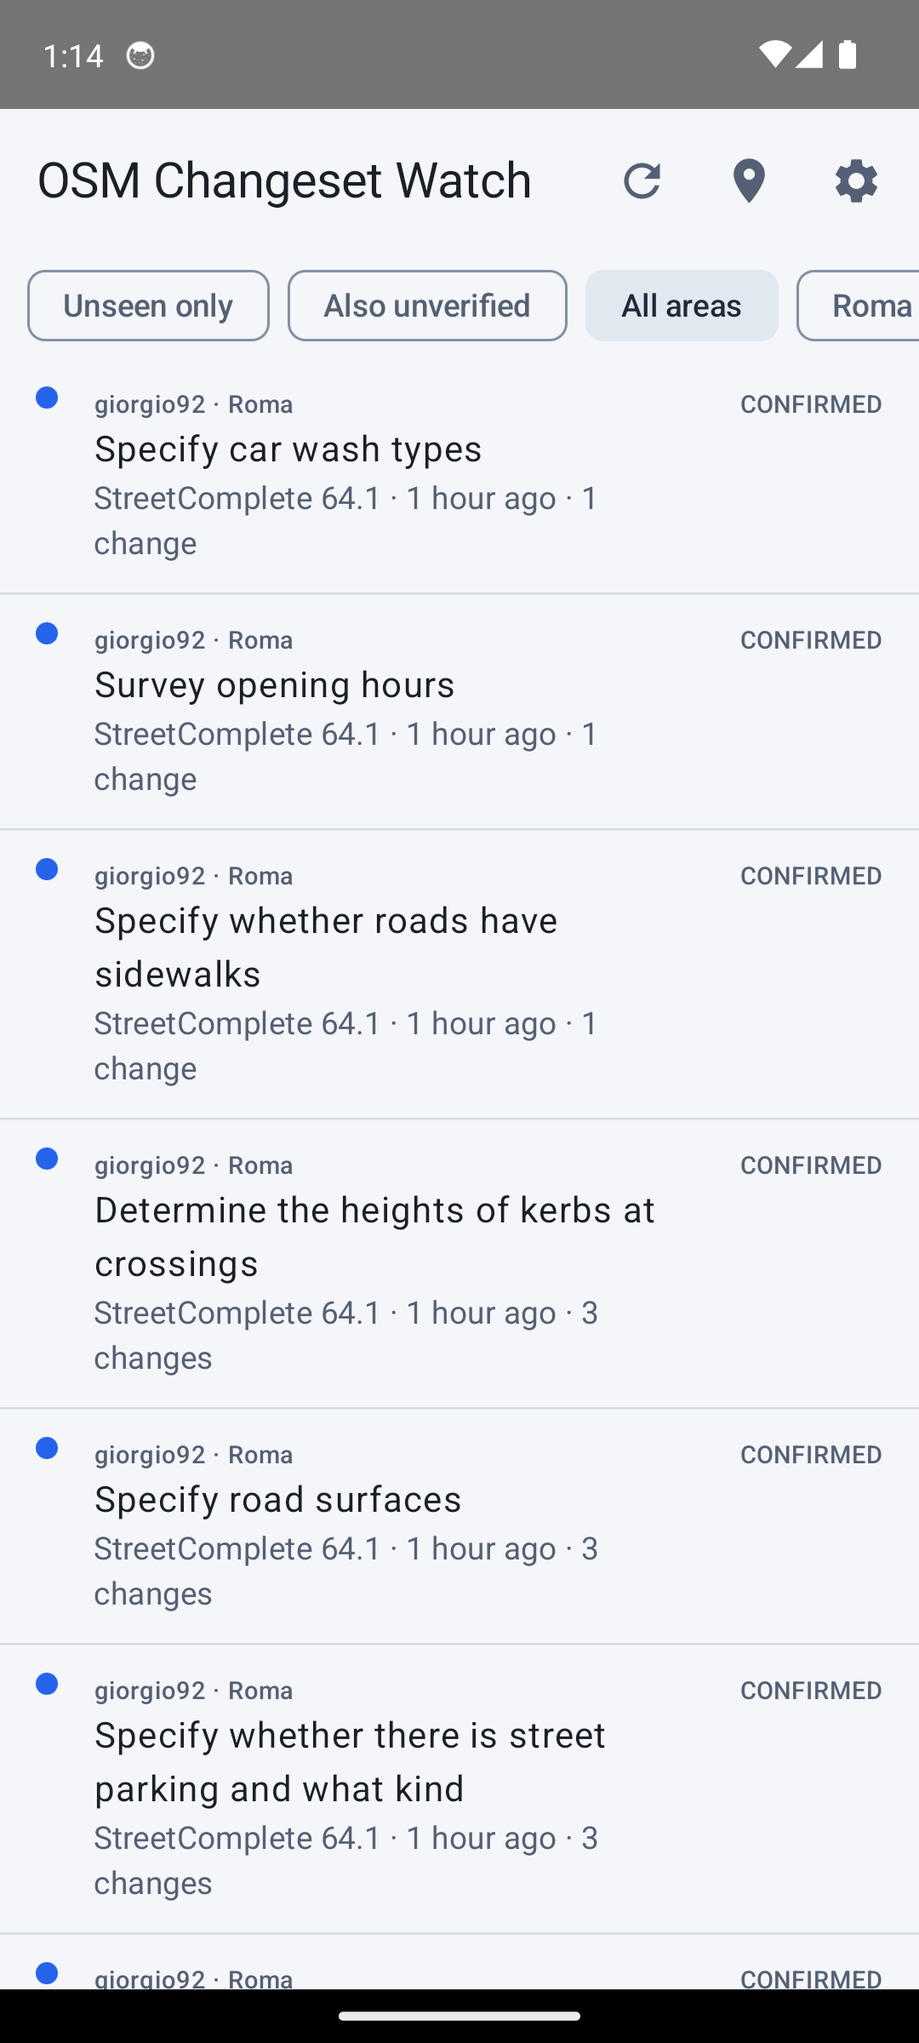
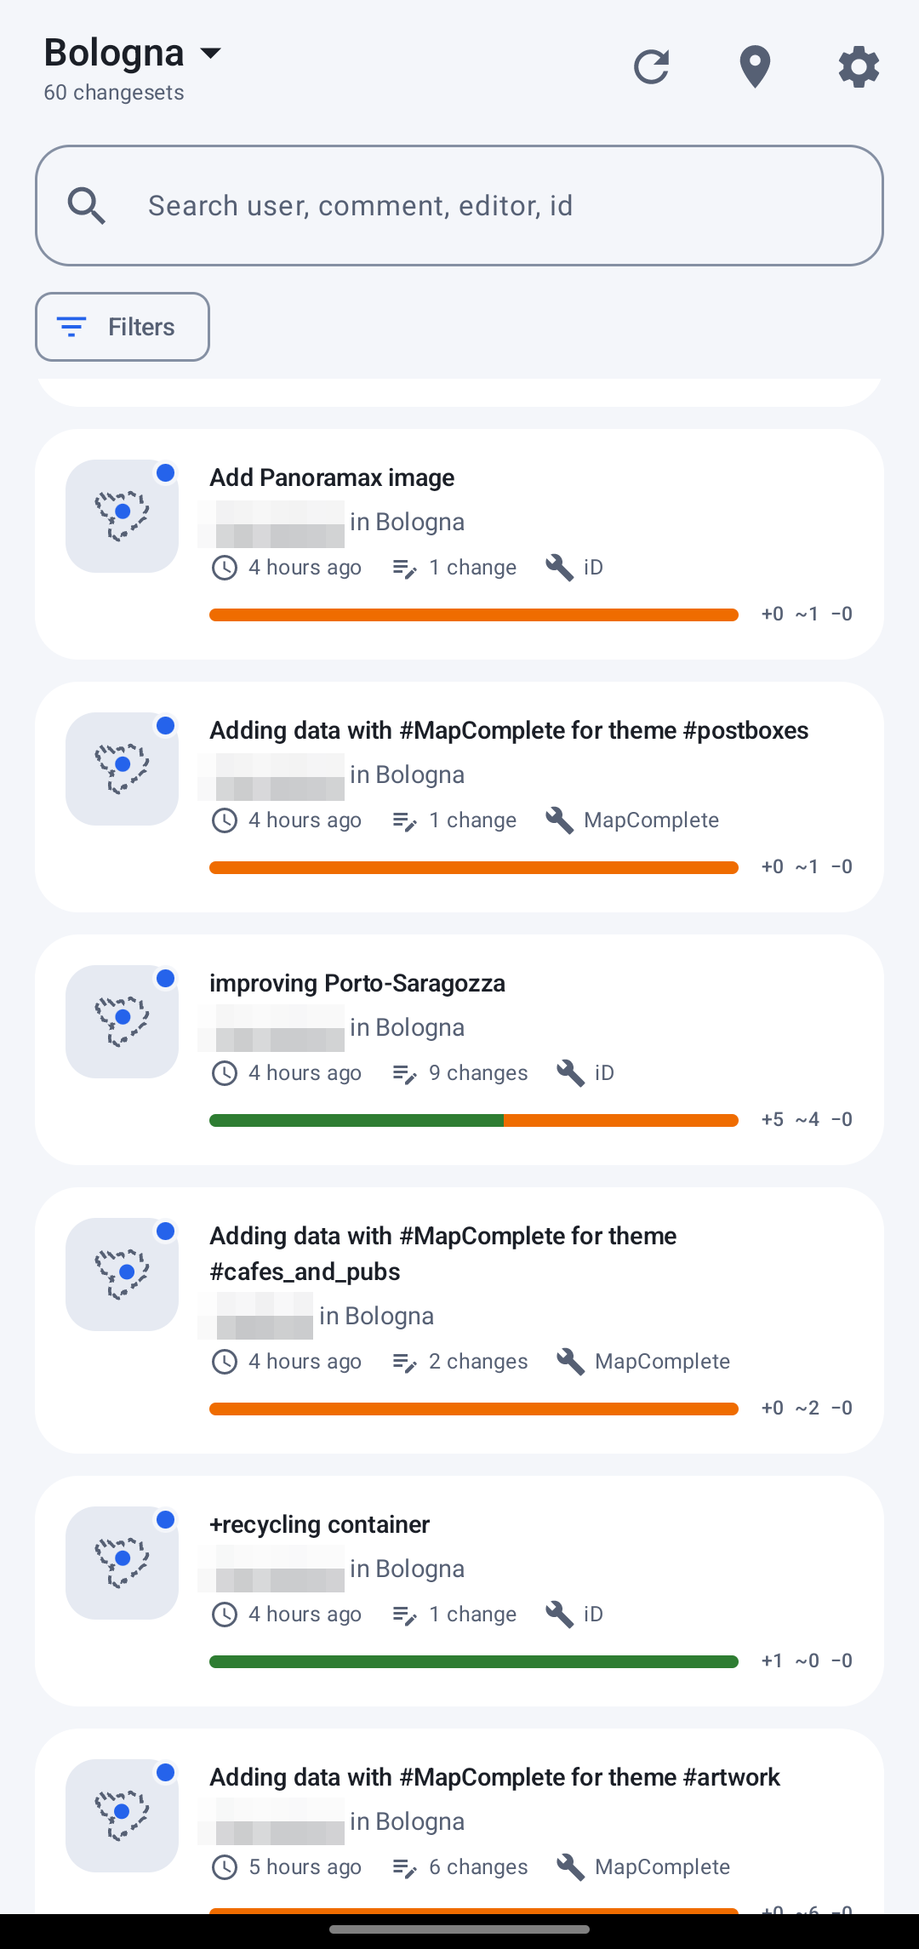
README nuovo, screenshot neutri, zoom fino a 21, date nella lingua dell'app
- README riscritto: funzioni attuali, diagramma della verifica, privacy, policy OSM
- Screenshot it/en della nuova interfaccia, con nomi e numeri oscurati
- Mappe fino allo zoom 21; l'inquadratura automatica si ferma al 19, dove esistono i tile
- "4 ore fa" segue la lingua scelta nell'app, non quella di sistema

diff --git a/app/src/main/java/org/osmwatch/changesetwatch/ui/MiniMap.kt b/app/src/main/java/org/osmwatch/changesetwatch/ui/MiniMap.kt
@@ -62,6 +62,13 @@ private class PointsOverlay(private val points: List<DrawPoint>, private val bef
     }
 }
 
+/**
+ * I tile OSM arrivano al 19; oltre, osmdroid ingrandisce quelli del 19 (fino a 29, illeggibile).
+ * Due livelli in più (tile ×4) restano leggibili e le geometrie disegnate sopra sono sempre nitide.
+ */
+const val MAX_ZOOM = 21.0
+private val TILE_ZOOM = TileSourceFactory.MAPNIK.maximumZoomLevel.toDouble()
+
 /** Minimappa non invasiva: mostra i cambiamenti (o, se non ricostruibili, la bbox del changeset) e si adatta all'area. */
 @Composable
 fun MiniMap(geometry: ChangeGeometry?, fallback: BBox?, onElementTap: (ElementRef) -> Unit, modifier: Modifier = Modifier) {
@@ -71,8 +78,7 @@ fun MiniMap(geometry: ChangeGeometry?, fallback: BBox?, onElementTap: (ElementRe
     val map = remember {
         MapView(context).apply {
             setTileSource(TileSourceFactory.MAPNIK)
-            // osmdroid permetterebbe zoom 29 ingrandendo i tile del 19 (sgranati): fermati dove i tile OSM esistono
-            maxZoomLevel = TileSourceFactory.MAPNIK.maximumZoomLevel.toDouble()
+            maxZoomLevel = MAX_ZOOM
             setMultiTouchControls(true)
             zoomController.setVisibility(CustomZoomButtonsController.Visibility.NEVER)
             // dentro una colonna scrollabile: il gesto sulla mappa non deve scorrere la pagina
@@ -119,7 +125,11 @@ fun MiniMap(geometry: ChangeGeometry?, fallback: BBox?, onElementTap: (ElementRe
             }
             if (box == null) return@post
             if (max(box.latitudeSpan, box.longitudeSpan) < 1e-4) { m.controller.setZoom(18.0); m.controller.setCenter(box.centerWithDateLine) }
-            else m.zoomToBoundingBox(box, false, (40 * d).toInt())
+            else {
+                m.zoomToBoundingBox(box, false, (40 * d).toInt())
+                // oltre il 19 i tile non si scaricano: si apre al 19 (così finiscono in cache) e lo zoom in più lo fa l'utente
+                if (m.zoomLevelDouble > TILE_ZOOM) m.controller.setZoom(TILE_ZOOM)
+            }
             m.invalidate()
         }
     })

diff --git a/app/src/main/java/org/osmwatch/changesetwatch/ui/Design.kt b/app/src/main/java/org/osmwatch/changesetwatch/ui/Design.kt
@@ -1,5 +1,7 @@
 package org.osmwatch.changesetwatch.ui
 
+import android.icu.text.RelativeDateTimeFormatter
+import android.icu.util.ULocale
 import androidx.compose.foundation.Canvas
 import androidx.compose.foundation.background
 import androidx.compose.foundation.layout.Box
@@ -193,5 +195,25 @@ fun CountsBar(created: Int?, modified: Int?, deleted: Int?, modifier: Modifier =
             "+$created  ~$modified  −$deleted", style = MaterialTheme.typography.labelSmall.tabular(),
             color = MaterialTheme.colorScheme.onSurfaceVariant, modifier = Modifier.padding(start = 10.dp),
         )
+    }
+}
+
+/**
+ * "4 ore fa" nella lingua dell'app: DateUtils.getRelativeTimeSpanString segue la lingua di sistema
+ * e ignora quella scelta nelle impostazioni.
+ */
+@Composable
+fun relativeTime(ms: Long): String {
+    val locale = androidx.compose.ui.platform.LocalConfiguration.current.locales[0]
+    val f = RelativeDateTimeFormatter.getInstance(ULocale.forLocale(locale))
+    val past = RelativeDateTimeFormatter.Direction.LAST
+    val min = (System.currentTimeMillis() - ms).coerceAtLeast(0) / 60_000
+    return when {
+        min < 1 -> f.format(RelativeDateTimeFormatter.Direction.PLAIN, RelativeDateTimeFormatter.AbsoluteUnit.NOW)
+        min < 60 -> f.format(min.toDouble(), past, RelativeDateTimeFormatter.RelativeUnit.MINUTES)
+        min < 24 * 60 -> f.format((min / 60).toDouble(), past, RelativeDateTimeFormatter.RelativeUnit.HOURS)
+        min < 2 * 24 * 60 -> f.format(past, RelativeDateTimeFormatter.AbsoluteUnit.DAY)
+        min < 7 * 24 * 60 -> f.format((min / (24 * 60)).toDouble(), past, RelativeDateTimeFormatter.RelativeUnit.DAYS)
+        else -> java.text.DateFormat.getDateInstance(java.text.DateFormat.MEDIUM, locale).format(java.util.Date(ms))
     }
 }

diff --git a/app/src/main/java/org/osmwatch/changesetwatch/ui/ChangesetsScreen.kt b/app/src/main/java/org/osmwatch/changesetwatch/ui/ChangesetsScreen.kt
@@ -1,6 +1,5 @@
 package org.osmwatch.changesetwatch.ui
 
-import android.text.format.DateUtils
 import androidx.compose.foundation.clickable
 import androidx.compose.foundation.layout.Arrangement
 import androidx.compose.foundation.layout.Box
@@ -295,7 +294,7 @@ private fun ChangesetCard(r: ChangesetRow, area: WatchArea?, flags: List<Flag>, 
                     }
                 }
                 Row(Modifier.padding(top = 6.dp), horizontalArrangement = Arrangement.spacedBy(12.dp)) {
-                    Meta(Icons.Default.Schedule, DateUtils.getRelativeTimeSpanString(r.createdAt, System.currentTimeMillis(), DateUtils.MINUTE_IN_MILLIS).toString())
+                    Meta(Icons.Default.Schedule, relativeTime(r.createdAt))
                     Meta(Icons.Default.EditNote, pluralStringResource(R.plurals.changes_n, r.changesCount ?: 0, r.changesCount ?: 0))
                     r.createdBy?.let { Meta(Icons.Default.Build, RowTags.editor(it) ?: it) }
                 }

diff --git a/app/src/main/java/org/osmwatch/changesetwatch/ui/ChangesetDetailScreen.kt b/app/src/main/java/org/osmwatch/changesetwatch/ui/ChangesetDetailScreen.kt
@@ -1,7 +1,6 @@
 package org.osmwatch.changesetwatch.ui
 
 import android.text.format.DateFormat
-import android.text.format.DateUtils
 import android.widget.Toast
 import androidx.activity.compose.BackHandler
 import androidx.compose.foundation.background
@@ -152,7 +151,7 @@ fun ChangesetDetailScreen(vm: ChangesetsViewModel, id: Long, areaId: Long, area:
                         Text("#$id", fontWeight = FontWeight.SemiBold, style = MaterialTheme.typography.titleLarge.tabular())
                         row?.let {
                             Text(
-                                DateUtils.getRelativeTimeSpanString(it.createdAt, System.currentTimeMillis(), DateUtils.MINUTE_IN_MILLIS).toString(),
+                                relativeTime(it.createdAt),
                                 style = MaterialTheme.typography.bodySmall, color = MaterialTheme.colorScheme.onSurfaceVariant,
                             )
                         }

diff --git a/app/src/main/java/org/osmwatch/changesetwatch/ui/AreasScreen.kt b/app/src/main/java/org/osmwatch/changesetwatch/ui/AreasScreen.kt
@@ -1,6 +1,5 @@
 package org.osmwatch.changesetwatch.ui
 
-import android.text.format.DateUtils
 import androidx.activity.compose.BackHandler
 import androidx.compose.foundation.clickable
 import androidx.compose.foundation.layout.Arrangement
@@ -169,7 +168,7 @@ private fun AreaCard(a: WatchArea, unseen: Int, onEdit: (() -> Unit)?, onToggle:
                     else Meta(if (a.polygon != null) Icons.Default.LocationCity else Icons.Default.SquareFoot, stringResource(R.string.area_km2, a.shape.areaKm2()))
                     Meta(
                         Icons.Default.Schedule,
-                        a.lastCheckedAt?.let { DateUtils.getRelativeTimeSpanString(it, System.currentTimeMillis(), DateUtils.MINUTE_IN_MILLIS).toString() }
+                        a.lastCheckedAt?.let { relativeTime(it) }
                             ?: stringResource(R.string.never_checked),
                     )
                 }

diff --git a/app/src/main/java/org/osmwatch/changesetwatch/ui/AreaEditorScreen.kt b/app/src/main/java/org/osmwatch/changesetwatch/ui/AreaEditorScreen.kt
@@ -238,8 +238,7 @@ fun AreaEditorScreen(area: WatchArea?, onSave: (WatchArea) -> Unit, onBack: () -
             factory = {
                 map.apply {
                     setTileSource(TileSourceFactory.MAPNIK)
-                    // osmdroid permetterebbe zoom 29 ingrandendo i tile del 19 (sgranati): fermati dove i tile OSM esistono
-                    maxZoomLevel = TileSourceFactory.MAPNIK.maximumZoomLevel.toDouble()
+                    maxZoomLevel = MAX_ZOOM
                     setMultiTouchControls(true)
                     zoomController.setVisibility(CustomZoomButtonsController.Visibility.NEVER)
                     controller.setZoom(13.0)

diff --git a/README.md b/README.md
@@ -1,66 +1,129 @@
+<div align="center">
+
+<img src="docs/icon.svg" width="96" alt="">
+
 # OSM Changeset Watch
 
-App Android (Kotlin, Jetpack Compose) che controlla i **changeset di OpenStreetMap** nelle aree che disegni sulla mappa e ti avvisa con una notifica. Nessun account, nessuna pubblicità, nessun servizio Google, nessun tracker. Licenza **GPL-3.0** (stessa di ParkMap).
+**Sai cosa cambia su OpenStreetMap nella tua zona, appena succede.**
 
-| Lista | Minimappa | Impostazioni |
-|---|---|---|
-| ![](fastlane/metadata/android/en-US/images/phoneScreenshots/1_list.png) | ![](fastlane/metadata/android/en-US/images/phoneScreenshots/2_map.png) | ![](fastlane/metadata/android/en-US/images/phoneScreenshots/3_settings.png) |
+Scegli un comune o disegna un'area: l'app controlla i changeset in background, scarta quelli che la sfiorano soltanto e ti avvisa di quelli che la toccano davvero. Per ognuno mostra cosa è cambiato, chi l'ha fatto e se vale la pena guardarlo meglio, come OSMCha ma sul telefono.
+
+[![Licenza GPL-3.0](https://img.shields.io/badge/licenza-GPL--3.0-2563EB)](LICENSE)
+[![Android 8.0+](https://img.shields.io/badge/Android-8.0%2B-2563EB?logo=android&logoColor=white)](#build)
+[![Kotlin](https://img.shields.io/badge/Kotlin-Compose-2563EB?logo=kotlin&logoColor=white)](#build)
+[![Nessun tracker](https://img.shields.io/badge/tracker-nessuno-16A34A)](#privacy)
+
+</div>
+
+| Lista | Dettaglio | Elementi | Confine del comune |
+|:---:|:---:|:---:|:---:|
+| <img src="fastlane/metadata/android/it-IT/images/phoneScreenshots/1_list.png" width="200"> | <img src="fastlane/metadata/android/it-IT/images/phoneScreenshots/2_detail.png" width="200"> | <img src="fastlane/metadata/android/it-IT/images/phoneScreenshots/3_elements.png" width="200"> | <img src="fastlane/metadata/android/it-IT/images/phoneScreenshots/4_area_editor.png" width="200"> |
 
 ## Cosa fa
-- **Aree**: rettangolo trascinabile su mappa osmdroid, superficie in km², avviso se molto grande.
-- **Filtro vero**: l'API restituisce ogni changeset la cui bbox *interseca* l'area, anche se enorme. Ogni candidato viene verificato (`ChangesetVerifier`) e la lista mostra solo quelli con almeno un elemento dentro l'area. "Anche non verificati" mostra il resto.
-- **Minimappa** del changeset: nuovo (verde), modificato (arancione), eliminato (rosso tratteggiato). Tocco su un elemento: tag aggiunti/cambiati/rimossi, spostamento, nodi aggiunti/tolti.
-- **Notifiche** raggruppate per area; controllo in background con WorkManager (15 min – 6 h).
-- Apertura del changeset su osm.org, Achavi, OSMCha. Italiano e inglese; tema, colori (blu / Material You) e lingua nelle impostazioni (stesso schema di ParkMap).
+
+### Osserva
+- **Comuni e luoghi veri.** Cerca un comune con Nominatim e l'area segue il suo confine reale, non un rettangolo. In alternativa disegni il rettangolo a mano.
+- **Utenti, ovunque nel mondo.** Segui un mapper e vedi tutti i suoi changeset, in qualunque posto.
+- **Notifiche raggruppate per area**, con un controllo in background ogni 15 minuti o fino a 6 ore.
+
+### Filtra il rumore
+- **Verifica geometrica.** L'API restituisce ogni changeset il cui riquadro *interseca* l'area, anche se copre mezza Europa. L'app scarica le modifiche e tiene solo quelli con almeno un elemento dentro.
+- **Segnali in stile OSMCha:** molte modifiche, nessun commento, cancellazioni in massa, mapper nuovo, utente già bloccato, utente sospetto.
+- **Filtri** per dimensione, data, editor, hashtag e tipo di modifica (solo cancellazioni, solo creazioni…).
+- **Liste di utenti fidati e sospetti**, per nascondere o evidenziare chi conosci.
+- Una **ricerca** per utente, commento, editor o id, e **"Carica altri"** in fondo alla lista per andare indietro nel tempo.
+
+### Capisci cosa è successo
+- **Mappa del changeset:** in verde ciò che è nuovo, in arancione il modificato, in rosso tratteggiato l'eliminato. La forma precedente resta visibile in grigio.
+- **Elenco degli elementi cambiati**, comprese le relation: tag aggiunti, cambiati e rimossi, nodi spostati, membri aggiunti e tolti.
+- **Cronologia di ogni elemento dentro l'app**, versione per versione, con le differenze e il link al changeset che l'ha fatta.
+- **Scheda dell'autore**, con iscrizione, numero di changeset, blocchi ricevuti e un riepilogo dell'attività recente nello stile di HDYC.
+- **Discussione:** leggi i commenti e, con il login OSM, rispondi direttamente al mapper.
+- Link rapidi a osm.org, iD, Achavi e OSMCha. L'app apre anche i link `openstreetmap.org/changeset/…` che arrivano da altre app.
 
 ## Come funziona la verifica
-1. bbox del changeset dentro l'area → confermato (nessun download); disgiunta → fuori.
-2. Più di *N* modifiche (default 2000, Impostazioni → Filtro) → `SKIPPED_TOO_LARGE`, non scaricato.
-3. Altrimenti `GET /changeset/{id}/download`: un nodo creato/modificato dentro l'area → confermato.
-4. Poi si ricostruisce la geometria: nodi cancellati (le coordinate non sono nel `osmChange`: si usa la versione precedente, `nodes?nodes=idv(N-1)`), way (nodi dal `osmChange`, gli altri via multi-fetch). Un punto dentro o un tratto che attraversa l'area → confermato.
-5. Nessun contatto: `OUTSIDE` se la ricostruzione è completa, `UNCERTAIN` se parziale o con relation.
 
-Download **uno alla volta**, 1 s di pausa, al massimo 25 verifiche per area e per giro (il resto resta `PENDING`).
+```mermaid
+flowchart LR
+    A[Changeset candidato] --> B{Riquadro dentro l'area?}
+    B -- sì --> OK([Confermato])
+    B -- disgiunto --> NO([Fuori])
+    B -- si sovrappone --> C{Più di N modifiche?}
+    C -- sì --> S([Troppo grande])
+    C -- no --> D[Scarica osmChange]
+    D --> E{Un nodo dentro?}
+    E -- sì --> OK
+    E -- no --> F[Ricostruisce way e nodi cancellati]
+    F --> G{Un punto o un tratto dentro?}
+    G -- sì --> OK
+    G -- no --> H([Fuori o incerto])
+```
+
+1. Se il riquadro del changeset è tutto dentro l'area, il changeset è confermato senza scaricare nulla. Se è del tutto fuori, viene scartato.
+2. Sopra le *N* modifiche (2000 di default, in Impostazioni → Filtro) il changeset non viene scaricato.
+3. Altrimenti l'app scarica `GET /changeset/{id}/download` e cerca un nodo creato o modificato dentro l'area.
+4. Poi ricostruisce la geometria. Le coordinate dei nodi cancellati vengono dalla versione precedente (`nodes?nodes=idv(N-1)`). Per le way, i nodi assenti dall'`osmChange` arrivano con un multi-fetch. Un punto dentro, o un tratto che attraversa il confine, basta a confermare.
+5. Se non trova nessun contatto, il changeset è **fuori** quando la ricostruzione è completa e **incerto** quando è parziale o contiene relation. I changeset incerti restano visibili con il filtro "Anche non verificati".
+
+## Privacy
+
+- **Nessun account obbligatorio, nessuna pubblicità, nessun tracker.** Niente Google Play Services, Firebase, analytics o crash reporter.
+- **Il login OSM è facoltativo** e serve solo per commentare. Usa OAuth2 con PKCE, senza segreti dentro l'app, e chiede il solo permesso `write_changeset_comments`. Il token è cifrato con l'Android Keystore.
+- **Permessi:** `INTERNET`, `ACCESS_NETWORK_STATE` e `POST_NOTIFICATIONS` (da Android 13). Nessun accesso alla posizione.
+
+## Rispetto per i server OSM
+
+- **API:** l'app legge in forma anonima da `api.openstreetmap.org/api/0.6` e si identifica con il proprio User-Agent (`OsmConfig.USER_AGENT`).
+  - Fa una richiesta alla volta, con pause tra una e l'altra.
+  - Su 429 e 5xx riprova con backoff esponenziale e rispetta `Retry-After`.
+  - Al massimo 25 download di verifica per giro; il resto aspetta il giro successivo.
+  - Vedi la [policy dell'API](https://operations.osmfoundation.org/policies/api/).
+- **Nominatim:** cerca solo quando premi invio, senza autocompletamento, con al massimo una richiesta al secondo. Vedi la [policy di Nominatim](https://operations.osmfoundation.org/policies/nominatim/).
+- **Tile:** usa i tile pubblici di OpenStreetMap, con 50 MB di cache e nessun prefetch. Vedi la [Tile Usage Policy](https://operations.osmfoundation.org/policies/tiles/).
 
 ## Limiti noti
-- Le **relation** non sono disegnate né risolte; un changeset con sole relation dentro l'area risulta `UNCERTAIN`.
-- Le way **cancellate** usano la posizione *attuale* dei nodi, che può essere cambiata.
-- Controlli in background **approssimativi**: Doze e risparmio energetico possono ritardarli; nessun foreground service. Il lavoro riprova con backoff se la rete manca.
-- Bbox che attraversano l'antimeridiano: non gestite (ignorate).
-- La mappa usa i tile pubblici di OpenStreetMap con User-Agent dell'app, cache da 50 MB e nessun prefetch; per uso intensivo la [Tile Usage Policy](https://operations.osmfoundation.org/policies/tiles/) suggerisce un provider dedicato.
-- Il refresh completo può durare qualche decina di secondi (verifiche sequenziali).
 
-## Uso dell'API OSM (policy)
-Solo lettura anonima di `api.openstreetmap.org/api/0.6`. User-Agent `OSMChangesetWatch/<versione> (<URL repo>)` in `OsmConfig.USER_AGENT` (da tenere allineato a `versionName`). Una richiesta alla volta, pause tra richieste, timeout 15/30 s, **backoff esponenziale** su 429/5xx e rispetto di `Retry-After`. Nessun polling aggressivo: intervallo minimo 15 min. [Policy ufficiale](https://operations.osmfoundation.org/policies/api/).
-
-La ricerca di comuni e luoghi nell'editor delle aree usa [Nominatim](https://nominatim.openstreetmap.org/) (stesso User-Agent): solo su invio esplicito, niente autocompletamento, al massimo una richiesta al secondo, come chiede la [policy di Nominatim](https://operations.osmfoundation.org/policies/nominatim/).
-
-## Scelta della mappa
-osmdroid 6.1.20 (Apache-2.0, nessuna dipendenza transitiva, solo Java) invece di MapLibre Native (librerie native pesanti, più rischio per F-Droid).
+- Le relation sono elencate con i membri cambiati, ma non vengono disegnate. Un changeset con sole relation dentro l'area risulta **incerto**.
+- Le way cancellate sono disegnate con la posizione *attuale* dei loro nodi, che nel frattempo può essere cambiata.
+- I tile OSM arrivano allo zoom 19. Oltre, fino al 21, lo sfondo è ingrandito e meno nitido, mentre le geometrie restano nitide.
+- I controlli in background sono approssimativi: Doze e il risparmio energetico possono ritardarli, perché l'app non usa un foreground service.
+- I riquadri che attraversano l'antimeridiano non sono gestiti.
 
 ## Build
+
+```sh
+./gradlew testDebugUnitTest     # test JVM: parser, geometria, verifica, client
+./gradlew assembleDebug         # APK di debug
+./gradlew assembleRelease       # release con R8
+OSM_LIVE=1 ./gradlew testDebugUnitTest --tests "*LiveVerifyTest*" -i   # prova sull'API vera
 ```
-./gradlew testDebugUnitTest      # test JVM (parser, geometria, verifier, client)
-./gradlew assembleDebug          # APK di debug
-./gradlew assembleRelease        # release (R8), firmata solo se esportate OSMWATCH_KEYSTORE / _KEYSTORE_PASSWORD / _KEY_ALIAS / _KEY_PASSWORD
-OSM_LIVE=1 ./gradlew testDebugUnitTest --tests "*LiveVerifyTest*" -i   # prova reale sull'API
-```
-JDK 17, Android SDK 35, Gradle wrapper. Nessuno step scarica binari: solo dipendenze Maven verificabili.
 
-## Permessi
-`INTERNET`, `ACCESS_NETWORK_STATE`, `POST_NOTIFICATIONS` (Android 13+). Nessun permesso di posizione.
+- Serve JDK 17, con Android SDK 35 e il Gradle wrapper. Nessuno step scarica binari, solo dipendenze Maven.
+- La release viene firmata solo se esporti `OSMWATCH_KEYSTORE`, `_KEYSTORE_PASSWORD`, `_KEY_ALIAS` e `_KEY_PASSWORD`.
 
-## Dipendenze (tutte FOSS)
-AndroidX (Core, Lifecycle, Activity, WorkManager, Room), Jetpack Compose + Material 3 (+ icons-extended), OkHttp/Okio (Apache-2.0), osmdroid (Apache-2.0), Kotlin stdlib, `listenablefuture` (stub Guava, Apache-2.0). Solo test: JUnit, MockWebServer, kxml2. Verificato con `:app:dependencies`: nessun Google Play Services, Firebase, analytics o crash reporter. `dependenciesInfo` disattivato (niente blocco opaco nell'APK).
+**Stack:**
+- Kotlin, Jetpack Compose e Material 3, Room, WorkManager;
+- OkHttp;
+- [osmdroid](https://github.com/osmdroid/osmdroid), scelto al posto di MapLibre Native perché è solo Java, non ha librerie native e non ha dipendenze transitive.
 
-## Checklist F-Droid
-- [x] Licenza FOSS (GPL-3.0), `LICENSE` nel repo
+Tutte le dipendenze sono FOSS. `dependenciesInfo` è disattivato, quindi nell'APK non c'è un blocco opaco.
+
+<details>
+<summary><b>Checklist F-Droid</b></summary>
+
+- [x] Licenza FOSS (GPL-3.0), con `LICENSE` nel repo
 - [x] Build Gradle standard, nessun binario scaricato, nessun servizio proprietario
-- [x] Metadati Fastlane (`fastlane/metadata/android/{en-US,it-IT}`: titolo, descrizioni, changelog 100, screenshot)
-- [x] Anti-Feature: nessuna (dati e tile da servizi OpenStreetMap, liberi)
-- [x] `.gitattributes` con `eol=lf` (il wrapper `gradlew` resta eseguibile su Linux)
-- [ ] Repository pubblico `github.com/AndreaDp271/OsmChangesetWatch` (l'URL è già nel User-Agent)
+- [x] Metadati Fastlane in `fastlane/metadata/android/{en-US,it-IT}`
+- [x] Nessuna Anti-Feature: dati e tile vengono da servizi OpenStreetMap liberi
+- [x] `.gitattributes` con `eol=lf`
+- [x] Repository pubblico
+- [x] Screenshot aggiornati alla nuova interfaccia
 - [ ] Tag `v1.0.0` e richiesta di inclusione a `fdroiddata`
 
-## Dati
-Dati © OpenStreetMap contributors (ODbL).
+</details>
+
+---
+
+<div align="center">
+<sub>Dati © <a href="https://www.openstreetmap.org/copyright">OpenStreetMap contributors</a> (ODbL) · Licenza <a href="LICENSE">GPL-3.0</a></sub>
+</div>

diff --git a/CHANGELOG.md b/CHANGELOG.md
@@ -24,4 +24,5 @@
 - Database migrations keep existing areas (versions 2 to 5).
 - "Load more" at the end of the list fetches older changesets; the verification budget now counts only real downloads.
 - Element history inside the app, with the differences between versions and links to each changeset.
-- Maps stop at zoom 19, where OSM tiles exist, instead of showing blurry enlarged tiles.
+- Maps zoom up to 21; they open at most at zoom 19, where OSM tiles exist, and enlarge those beyond it (zoom 29 was unreadable).
+- Relative times ("4 hours ago") follow the app language instead of the system language.
